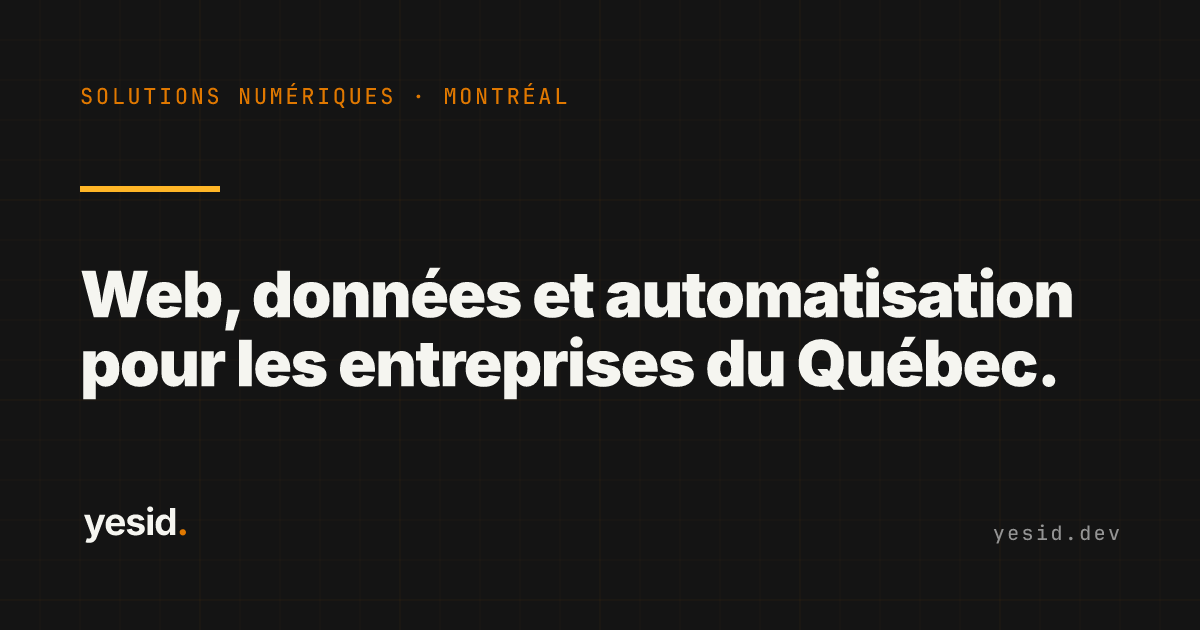
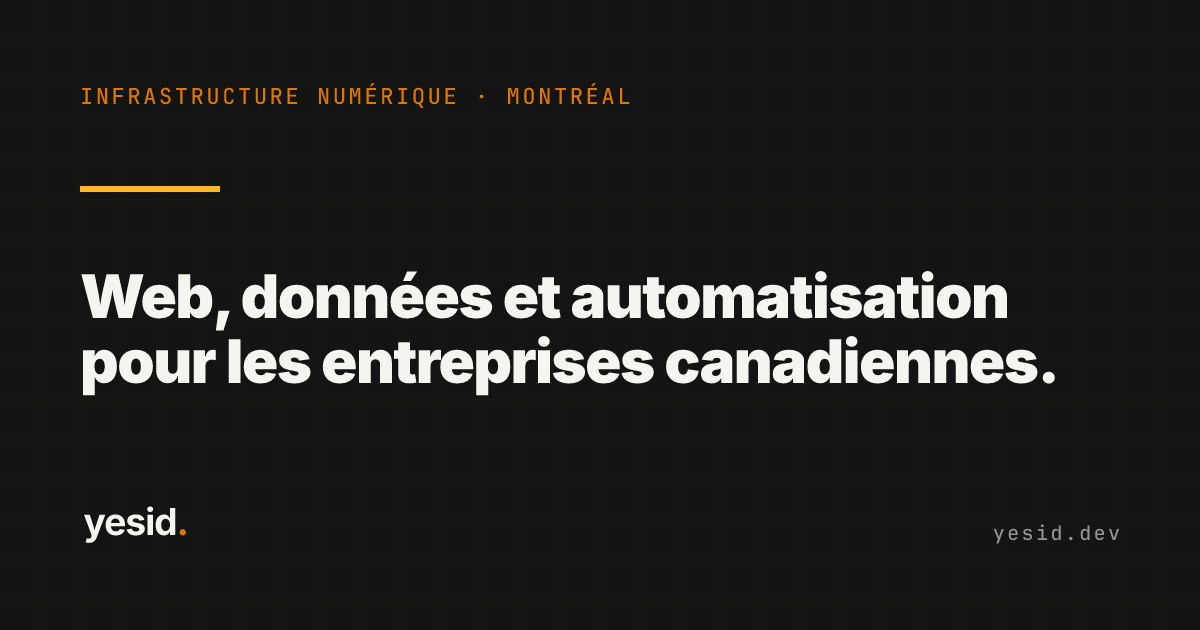
feat: position for businesses across Canada and retitle as Digital Infrastructure Developer
Home, about, services and contact search copy now speaks to businesses in
Québec and across Canada instead of Québec SMEs only, in en/fr/es. The job
title becomes Freelance Digital Infrastructure Developer everywhere (owner
JSON-LD, about intro, about SEO title, llms.txt). Default and about OG cards
are regenerated to match, and the content fixture mirrors the live CMS.

Changed region(s): [[0.0617, 0.4222, 0.8942, 0.6333], [0.2467, 0.1206, 0.5242, 0.181], [0.0617, 0.1206, 0.2158, 0.181]]

diff --git a/apps/cms/fixtures/content/outcome-first-positioning.ts b/apps/cms/fixtures/content/outcome-first-positioning.ts
@@ -1,7 +1,7 @@
 export const TITLE_BY_LOCALE = {
-	en: 'Freelance Digital Solutions Developer',
-	fr: 'Développeur de solutions numériques à la pige',
-	es: 'Desarrollador freelance de soluciones digitales',
+	en: 'Freelance Digital Infrastructure Developer',
+	fr: 'Développeur en infrastructure numérique à la pige',
+	es: 'Desarrollador freelance de infraestructura digital',
 } as const;
 
 export type OutcomeFirstLocale = keyof typeof TITLE_BY_LOCALE;
@@ -9,23 +9,23 @@ export type OutcomeFirstLocale = keyof typeof TITLE_BY_LOCALE;
 export const SITE_META_BY_LOCALE = {
 	en: {
 		description:
-			'Freelance digital solutions developer in Montréal helping Québec SMEs connect websites, data, reporting, automation, and workflows through practical, reliable systems.',
+			'Freelance digital infrastructure developer in Montréal helping businesses across Canada connect websites, data, reporting, automation, and workflows.',
 		default_description:
-			'yesid.dev helps Québec SMEs connect websites, data, reporting, and everyday workflows through web development, automation, analytics, databases, and SQL.',
+			'yesid.dev helps businesses in Québec and across Canada connect websites, data, reporting, and workflows through web, automation, analytics, databases, and SQL.',
 		owner_job_title: TITLE_BY_LOCALE.en,
 	},
 	fr: {
 		description:
-			'Développeur de solutions numériques à la pige à Montréal, aidant les PME du Québec à relier sites web, données, rapports, automatisation et processus avec des systèmes fiables.',
+			'Développeur en infrastructure numérique à la pige à Montréal, aidant les entreprises partout au Canada à relier sites web, données, rapports et processus.',
 		default_description:
-			'yesid.dev aide les PME du Québec à relier sites web, données, rapports et processus par le web, l’automatisation, l’analytique, les bases de données et SQL.',
+			'yesid.dev aide les entreprises du Québec et de partout au Canada à relier sites web, données, rapports et processus : web, automatisation, analytique et SQL.',
 		owner_job_title: TITLE_BY_LOCALE.fr,
 	},
 	es: {
 		description:
-			'Desarrollador de soluciones digitales en Montreal que ayuda a pymes de Québec a conectar sitios web, datos, reportes, automatización y procesos con sistemas confiables.',
+			'Desarrollador de infraestructura digital en Montreal que ayuda a empresas de todo Canadá a conectar sitios web, datos, reportes, automatización y procesos.',
 		default_description:
-			'yesid.dev ayuda a pymes de Québec a conectar sitios web, datos, reportes y procesos mediante desarrollo web, automatización, analítica, bases de datos y SQL.',
+			'yesid.dev ayuda a empresas de Québec y de todo Canadá a conectar sitios web, datos, reportes y procesos con web, automatización, analítica, bases de datos y SQL.',
 		owner_job_title: TITLE_BY_LOCALE.es,
 	},
 } as const;
@@ -40,17 +40,17 @@ export const ABOUT_ROUTE_BY_LOCALE = {
 	en: {
 		title: TITLE_BY_LOCALE.en,
 		description:
-			'Digital solutions developer in Montréal helping Québec SMEs connect websites, reports, and workflows through web, automation, analytics, databases, and SQL.',
+			'Digital infrastructure developer in Montréal helping Canadian businesses connect websites, reports, and workflows through web, automation, analytics, and SQL.',
 	},
 	fr: {
 		title: TITLE_BY_LOCALE.fr,
 		description:
-			"Développeur de solutions numériques à la pige à Montréal. J'aide les PME du Québec avec le web, l'automatisation, l'analytique, les bases de données et SQL.",
+			"Développeur en infrastructure numérique à la pige à Montréal. J'aide les entreprises canadiennes avec le web, l'automatisation, l'analytique et SQL.",
 	},
 	es: {
 		title: TITLE_BY_LOCALE.es,
 		description:
-			'Desarrollador freelance de soluciones digitales en Montreal. Ayudo a pymes de Québec con web, automatización, analítica, bases de datos y SQL confiables.',
+			'Desarrollador freelance de infraestructura digital en Montreal. Ayudo a empresas canadienses con web, automatización, analítica, bases de datos y SQL.',
 	},
 } as const;
 
@@ -61,7 +61,7 @@ export const ABOUT_META_DESCRIPTION_BY_LOCALE = {
 } as const;
 
 export const SERVICES_DESCRIPTION_BY_LOCALE = {
-	en: 'Digital solutions for Québec SMEs: websites and e-commerce, workflow automation, dashboards and analytics, databases and SQL, built around real operations.',
-	fr: 'Solutions numériques pour les PME du Québec : sites web et commerce en ligne, automatisation, tableaux de bord, analytique, bases de données et SQL fiables.',
-	es: 'Soluciones digitales para pymes de Québec: desarrollo web y e-commerce, automatización, tableros y analítica, bases de datos y SQL, según su operación real.',
+	en: 'Digital solutions for Canadian businesses: websites and e-commerce, workflow automation, dashboards and analytics, databases and SQL, built around real operations.',
+	fr: 'Solutions numériques pour les entreprises canadiennes : sites web et commerce en ligne, automatisation, tableaux de bord, analytique, bases de données et SQL.',
+	es: 'Soluciones digitales para empresas canadienses: desarrollo web y e-commerce, automatización, tableros y analítica, bases de datos y SQL, según su operación real.',
 } as const;

diff --git a/apps/cms/scripts/lib/fetchers/site-meta.test.ts b/apps/cms/scripts/lib/fetchers/site-meta.test.ts
@@ -48,28 +48,28 @@ const SITE_META_FIXTURE: DirectusSiteMetaRow = {
 			languages_code: 'en',
 			tagline: 'Digital infrastructure that moves.',
 			description:
-				'Freelance digital solutions developer in Montréal helping Québec SMEs connect websites, data, reporting, automation, and workflows through practical, reliable systems.',
+				'Freelance digital infrastructure developer in Montréal helping businesses across Canada connect websites, data, reporting, automation, and workflows.',
 			default_description:
-				'yesid.dev helps Québec SMEs connect websites, data, reporting, and everyday workflows through web development, automation, analytics, databases, and SQL.',
-			owner_job_title: 'Freelance Digital Solutions Developer',
+				'yesid.dev helps businesses in Québec and across Canada connect websites, data, reporting, and workflows through web, automation, analytics, databases, and SQL.',
+			owner_job_title: 'Freelance Digital Infrastructure Developer',
 		},
 		{
 			languages_code: 'fr',
 			tagline: 'Une infrastructure numérique qui bouge.',
 			description:
-				'Développeur de solutions numériques à la pige à Montréal, aidant les PME du Québec à relier sites web, données, rapports, automatisation et processus avec des systèmes fiables.',
+				'Développeur en infrastructure numérique à la pige à Montréal, aidant les entreprises partout au Canada à relier sites web, données, rapports et processus.',
 			default_description:
-				'yesid.dev aide les PME du Québec à relier sites web, données, rapports et processus par le web, l’automatisation, l’analytique, les bases de données et SQL.',
-			owner_job_title: 'Développeur de solutions numériques à la pige',
+				'yesid.dev aide les entreprises du Québec et de partout au Canada à relier sites web, données, rapports et processus : web, automatisation, analytique et SQL.',
+			owner_job_title: 'Développeur en infrastructure numérique à la pige',
 		},
 		{
 			languages_code: 'es',
 			tagline: 'Infraestructura digital que se mueve.',
 			description:
-				'Desarrollador de soluciones digitales en Montreal que ayuda a pymes de Québec a conectar sitios web, datos, reportes, automatización y procesos con sistemas confiables.',
+				'Desarrollador de infraestructura digital en Montreal que ayuda a empresas de todo Canadá a conectar sitios web, datos, reportes, automatización y procesos.',
 			default_description:
-				'yesid.dev ayuda a pymes de Québec a conectar sitios web, datos, reportes y procesos mediante desarrollo web, automatización, analítica, bases de datos y SQL.',
-			owner_job_title: 'Desarrollador freelance de soluciones digitales',
+				'yesid.dev ayuda a empresas de Québec y de todo Canadá a conectar sitios web, datos, reportes y procesos con web, automatización, analítica, bases de datos y SQL.',
+			owner_job_title: 'Desarrollador freelance de infraestructura digital',
 		},
 	],
 };
@@ -85,9 +85,9 @@ const EXPECTED_SITE_META: SiteMeta = {
 		es: 'Infraestructura digital que se mueve.',
 	},
 	description: {
-		en: 'Freelance digital solutions developer in Montréal helping Québec SMEs connect websites, data, reporting, automation, and workflows through practical, reliable systems.',
-		fr: 'Développeur de solutions numériques à la pige à Montréal, aidant les PME du Québec à relier sites web, données, rapports, automatisation et processus avec des systèmes fiables.',
-		es: 'Desarrollador de soluciones digitales en Montreal que ayuda a pymes de Québec a conectar sitios web, datos, reportes, automatización y procesos con sistemas confiables.',
+		en: 'Freelance digital infrastructure developer in Montréal helping businesses across Canada connect websites, data, reporting, automation, and workflows.',
+		fr: 'Développeur en infrastructure numérique à la pige à Montréal, aidant les entreprises partout au Canada à relier sites web, données, rapports et processus.',
+		es: 'Desarrollador de infraestructura digital en Montreal que ayuda a empresas de todo Canadá a conectar sitios web, datos, reportes, automatización y procesos.',
 	},
 	links: {
 		email: 'contact@yesid.dev',
@@ -98,9 +98,9 @@ const EXPECTED_SITE_META: SiteMeta = {
 	owner: {
 		name: 'Yesid O.',
 		jobTitle: {
-			en: 'Freelance Digital Solutions Developer',
-			fr: 'Développeur de solutions numériques à la pige',
-			es: 'Desarrollador freelance de soluciones digitales',
+			en: 'Freelance Digital Infrastructure Developer',
+			fr: 'Développeur en infrastructure numérique à la pige',
+			es: 'Desarrollador freelance de infraestructura digital',
 		},
 		phone: '+12025550100',
 		address: {

diff --git a/apps/web/src/lib/server/llms.ts b/apps/web/src/lib/server/llms.ts
@@ -36,7 +36,7 @@ function header(): string {
 		'',
 		`> ${en(siteMeta.description)}`,
 		'',
-		`${en(siteMeta.tagline)} Yesid O. works as a Freelance Digital Solutions Developer in Montréal. The four services cover websites and e-commerce, automation and pipelines, dashboards and analytics, and databases and SQL.`,
+		`${en(siteMeta.tagline)} Yesid O. works as a Freelance Digital Infrastructure Developer in Montréal. The four services cover websites and e-commerce, automation and pipelines, dashboards and analytics, and databases and SQL.`,
 		'',
 		`Available for remote and on-site work across ${serviceAreaList()}.`,
 		'',
@@ -55,8 +55,8 @@ function spanishSection(pages: readonly SitePage[]): string {
 		(s) => `- [${es(s.title)}](${SITE_HOST}/es/services/${s.id}): ${es(s.description)}`,
 	);
 	return [
-		'## Español — soluciones digitales en Montreal, Québec',
-		`Yesid O. trabaja como Desarrollador freelance de soluciones digitales en Montreal y atiende en español, francés e inglés. Ayuda a pymes de Québec con sitios web y e-commerce, automatización y pipelines, tableros y analítica, y bases de datos y SQL. Todo el sitio existe en español bajo ${SITE_HOST}/es.`,
+		'## Español — infraestructura digital en Montreal, Québec',
+		`Yesid O. trabaja como Desarrollador freelance de infraestructura digital en Montreal y atiende en español, francés e inglés. Ayuda a empresas de Québec y de todo Canadá con sitios web y e-commerce, automatización y pipelines, tableros y analítica, y bases de datos y SQL. Todo el sitio existe en español bajo ${SITE_HOST}/es.`,
 		...serviceLines,
 		...(isPathPublished('/contact', pages) ? [`Contacto en español: ${SITE_HOST}/es/contact`] : []),
 	].join('\n');

diff --git a/apps/web/scripts/generate-og-cards.ts b/apps/web/scripts/generate-og-cards.ts
@@ -333,9 +333,9 @@ const ROUTES = {
 	about: {
 		eyebrow: { en: 'ABOUT', fr: 'À PROPOS', es: 'ACERCA DE' } satisfies L,
 		subtitle: {
-			en: ['Freelance Digital', 'Solutions Developer'],
-			fr: ['Développeur de solutions', 'numériques à la pige'],
-			es: ['Desarrollador freelance', 'de soluciones digitales'],
+			en: ['Freelance Digital', 'Infrastructure Developer'],
+			fr: ['Développeur en infrastructure', 'numérique à la pige'],
+			es: ['Desarrollador freelance', 'de infraestructura digital'],
 		} satisfies LL,
 	},
 	projects: {
@@ -359,16 +359,16 @@ const ROUTES = {
 
 const DEFAULTS: Record<Locale, { eyebrow: string; title: readonly string[] }> = {
 	en: {
-		eyebrow: 'DIGITAL SOLUTIONS · MONTRÉAL',
-		title: ['Web, data & automation', 'for Québec businesses.'],
+		eyebrow: 'DIGITAL INFRASTRUCTURE · MONTRÉAL',
+		title: ['Web, data & automation', 'for Canadian businesses.'],
 	},
 	fr: {
-		eyebrow: 'SOLUTIONS NUMÉRIQUES · MONTRÉAL',
-		title: ['Web, données et automatisation', 'pour les entreprises du Québec.'],
+		eyebrow: 'INFRASTRUCTURE NUMÉRIQUE · MONTRÉAL',
+		title: ['Web, données et automatisation', 'pour les entreprises canadiennes.'],
 	},
 	es: {
-		eyebrow: 'SOLUCIONES DIGITALES · MONTRÉAL',
-		title: ['Web, datos y automatización', 'para empresas de Québec.'],
+		eyebrow: 'INFRAESTRUCTURA DIGITAL · MONTRÉAL',
+		title: ['Web, datos y automatización', 'para empresas canadienses.'],
 	},
 };
 

diff --git a/apps/web/src/lib/server/llms.test.ts b/apps/web/src/lib/server/llms.test.ts
@@ -18,9 +18,9 @@ describe('llms.txt — Spanish section (L2 Phase 4)', () => {
 		it(`${name} declares the site trilingual and carries the Español section`, () => {
 			expect(body).toContain('The site is trilingual');
 			expect(body).toContain('https://yesid.dev/es');
-			expect(body).toContain('## Español — soluciones digitales en Montreal, Québec');
-			expect(body).toContain('Freelance Digital Solutions Developer');
-			expect(body).toContain('Desarrollador freelance de soluciones digitales');
+			expect(body).toContain('## Español — infraestructura digital en Montreal, Québec');
+			expect(body).toContain('Freelance Digital Infrastructure Developer');
+			expect(body).toContain('Desarrollador freelance de infraestructura digital');
 			expect(body).toContain('en español, francés e inglés');
 			expect(body).toContain('https://yesid.dev/es/contact');
 			expect(body).toContain('Available for remote and on-site work across Montréal.');

diff --git a/apps/web/src/lib/adapters/error-seo-fallback.test.ts b/apps/web/src/lib/adapters/error-seo-fallback.test.ts
@@ -12,7 +12,7 @@ const siteMeta = {
 	},
 	owner: {
 		name: 'Yesid Otalora',
-		jobTitle: { en: 'Freelance Digital Solutions Developer' },
+		jobTitle: { en: 'Freelance Digital Infrastructure Developer' },
 		knowsAbout: ['PostgreSQL', 'SvelteKit'],
 		address: {
 			locality: 'Montreal',

diff --git a/apps/web/src/lib/adapters/route-seo-factories.test.ts b/apps/web/src/lib/adapters/route-seo-factories.test.ts
@@ -54,7 +54,7 @@ const siteMeta = {
 	},
 	owner: {
 		name: 'Yesid Otalora',
-		jobTitle: { en: 'Freelance Digital Solutions Developer' },
+		jobTitle: { en: 'Freelance Digital Infrastructure Developer' },
 		knowsAbout: ['PostgreSQL', 'SvelteKit'],
 		address: {
 			locality: 'Montreal',
